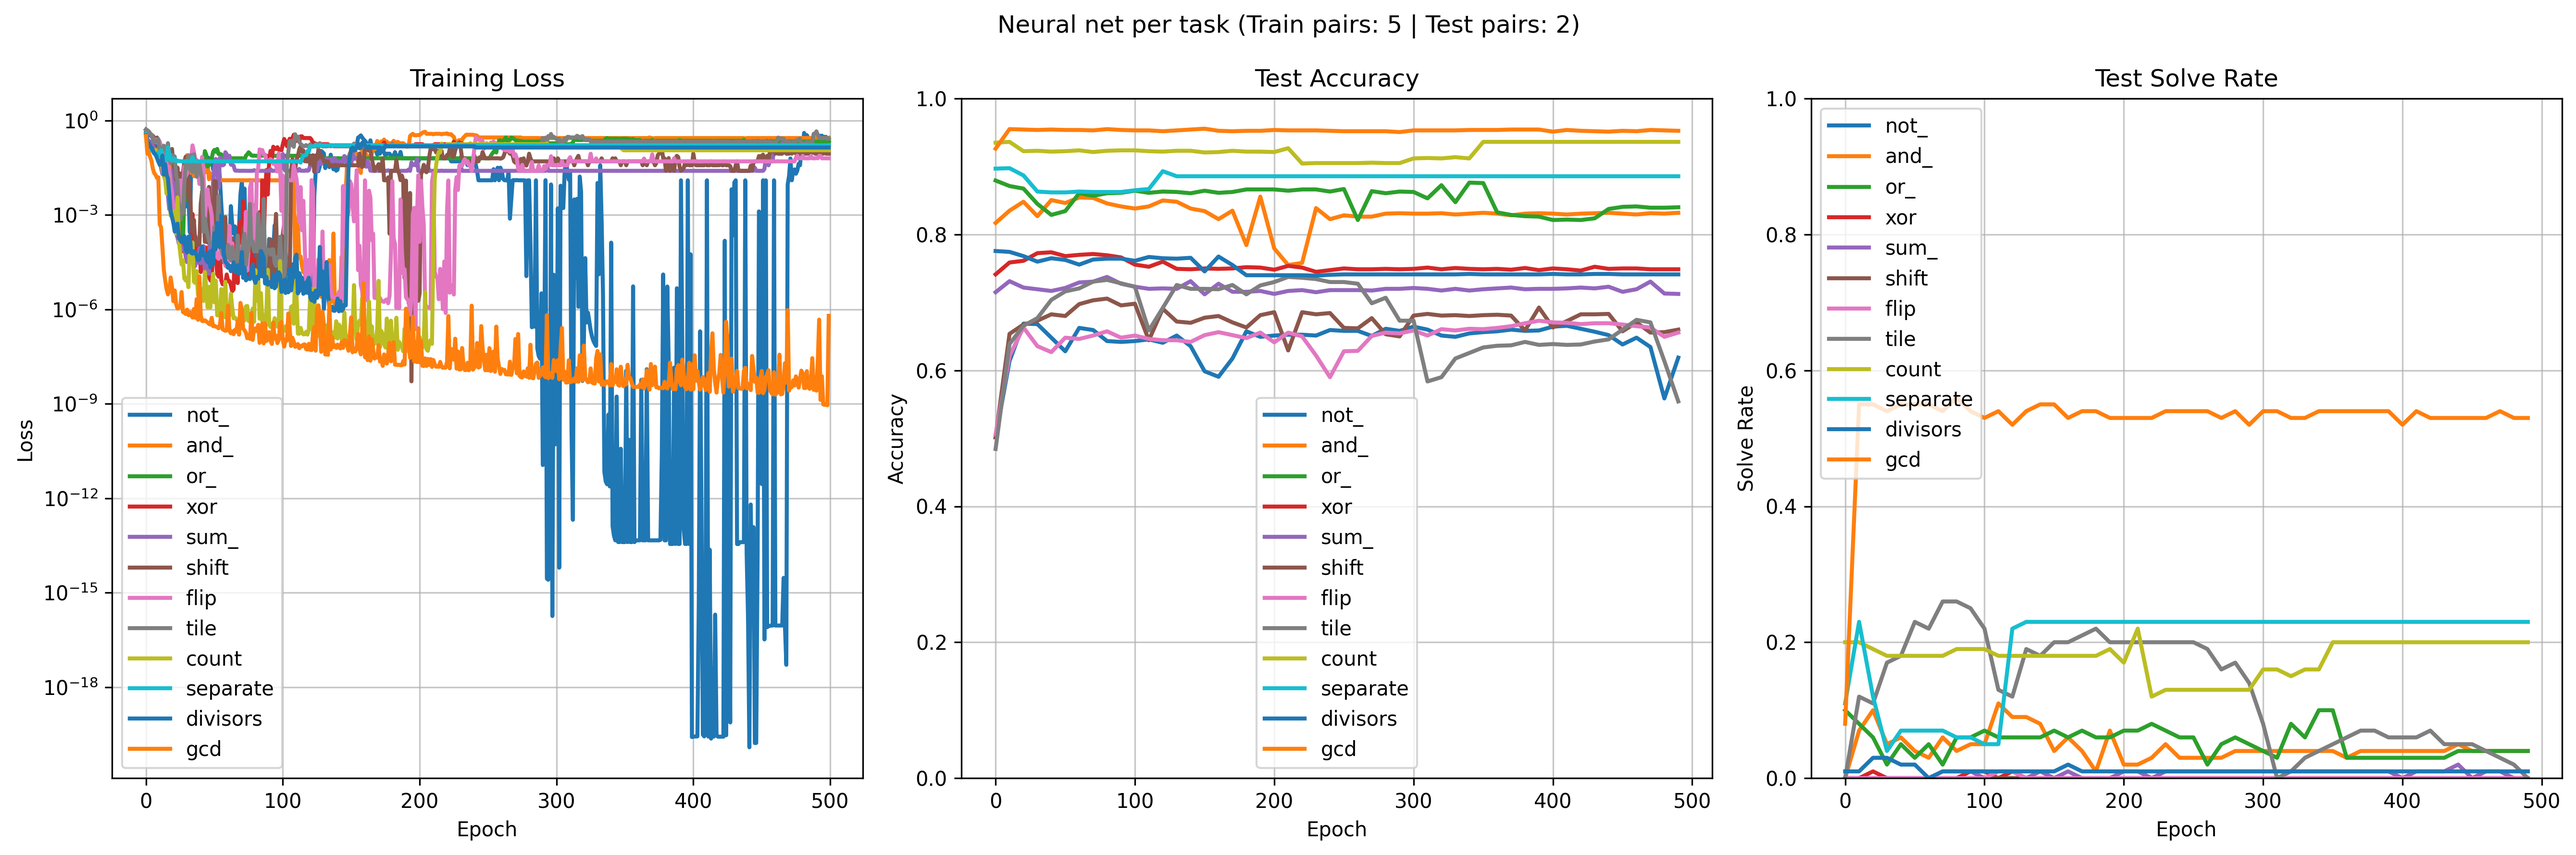
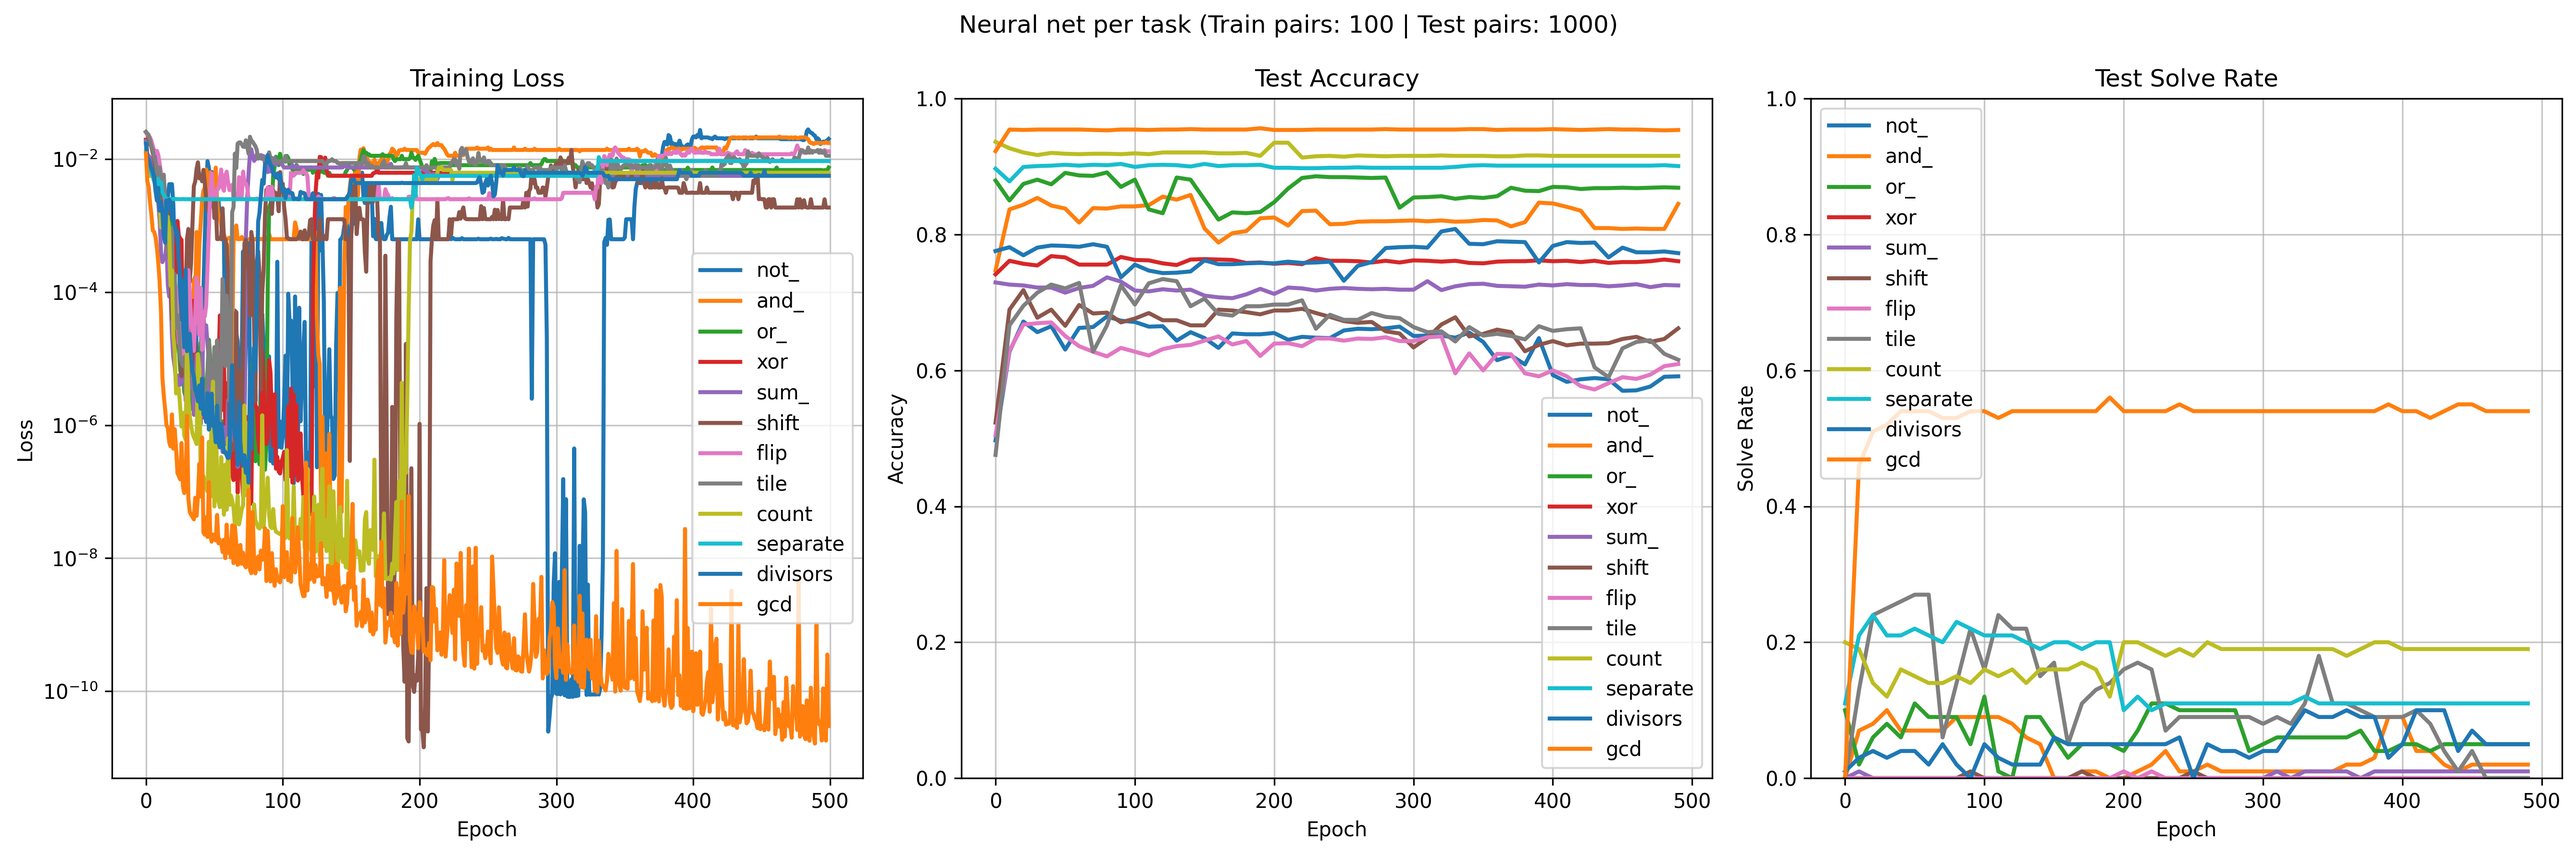
updates

diff --git a/test.py b/test.py
@@ -5,8 +5,8 @@ import matplotlib.pyplot as plt
 from tqdm import tqdm
 from typing import Callable
 
-from task import TaskCollection, Pair
-from tasklist import tasks
+from tasks import TaskCollection, Pair
+from task_list import task_list
 
 
 # Simple neural network
@@ -36,7 +36,7 @@ def train_net(
     train_pairs: tuple[Pair, ...],
     eval_fn: Callable,
     task_name,
-    epochs=500,
+    epochs=100,
     test_every=10,
 ):
     net = BitNet(size=16)
@@ -65,13 +65,11 @@ def train_net(
 
             batch_loss += loss.item()
 
-        avg_loss = batch_loss / examples
+        avg_loss = batch_loss / train_samples
         losses.append(avg_loss)
         pbar.set_postfix({"Loss": f"{avg_loss:.4f}"})
 
         if epoch % test_every == 0:
-            accs = []
-            solves = 0
             with torch.no_grad():
                 solve_fn = lambda inp: tuple(
                     int(x)
@@ -91,12 +89,12 @@ def train_net(
 # Train networks and plot results
 fig, (ax1, ax2, ax3) = plt.subplots(1, 3, figsize=(18, 6))
 print("Training networks...")
-examples = 5
-tests = 2
+train_samples = 100
+test_samples = 1000
 
-all_tasks = TaskCollection(tasks, train_samples=examples, test_samples=tests)
+all_tasks = TaskCollection(task_list, train_samples=train_samples, test_samples=test_samples)
 
-for pairs, eval_fn, task_name in tqdm(all_tasks.tasks(), desc="Overall Progress"):
+for pairs, eval_fn, task_name in tqdm(all_tasks.tasks(), desc="Tasks Completed", total=len(task_list)):
     net, losses, accuracies, solverates = train_net(
         train_pairs=pairs, eval_fn=eval_fn, task_name=task_name
     )
@@ -136,7 +134,7 @@ ax3.set_ylim(0, 1)
 ax3.grid(True, alpha=0.7)
 ax3.legend()
 
-fig.suptitle(f"Neural net per task (Train pairs: {examples} | Test pairs: {tests})")
+fig.suptitle(f"Neural net per task (Train pairs: {train_samples} | Test pairs: {test_samples})")
 
 plt.tight_layout()
 plt.savefig("training_metrics.png", dpi=300, bbox_inches="tight")

diff --git a/tasks.py b/tasks.py
@@ -103,6 +103,7 @@ class Task:
 
             if correct_val_preds == self.template_len:
                 corect_outputs += 1
+
         total_vals = self.test_pairs * self.template_len
         valuewise_acc = correct_vals / total_vals
         pairwise_acc = corect_outputs / self.test_pairs
@@ -121,6 +122,10 @@ class Task:
         # Grab enough random bits to select template and fill it in
         # template_len bits for each is enough for filling in and for
         # up to 2**template_len templates
+
+        # This does NOT check for collisions, so there's a probabilistic chance that
+        # test problems appear in training
+
         seed = f"{self.name}:{int(train)}:{str(index)}"
         bits = self.get_random_bits(self.template_len * 2, seed=seed)
         template_select, bits = bits[: self.template_len], bits[self.template_len :]

diff --git a/task_list.py b/task_list.py
@@ -1,7 +1,4 @@
 ### Utils
-from typing import Sequence, Callable
-from task import Register
-
 
 def to_int(bits: list[int]) -> int:
     return int("".join(str(b) for b in bits), 2)
@@ -20,7 +17,7 @@ def zero_pad(bits: list[int], left: bool = True, size: int = 16) -> list[int]:
 
 
 ### Tasks
-
+# Names of functions are extracted and used for reporting/visualization, so make them descriptive
 
 def not_(bits):
     # bitwise NOT
@@ -108,4 +105,4 @@ def gcd(bits):
     return zero_pad(to_list(a))
 
 
-tasks = [not_, and_, or_, xor, sum_, shift, flip, tile, count, separate, divisors, gcd]
+task_list = [not_, and_, or_, xor, sum_, shift, flip, tile, count, separate, divisors, gcd]
